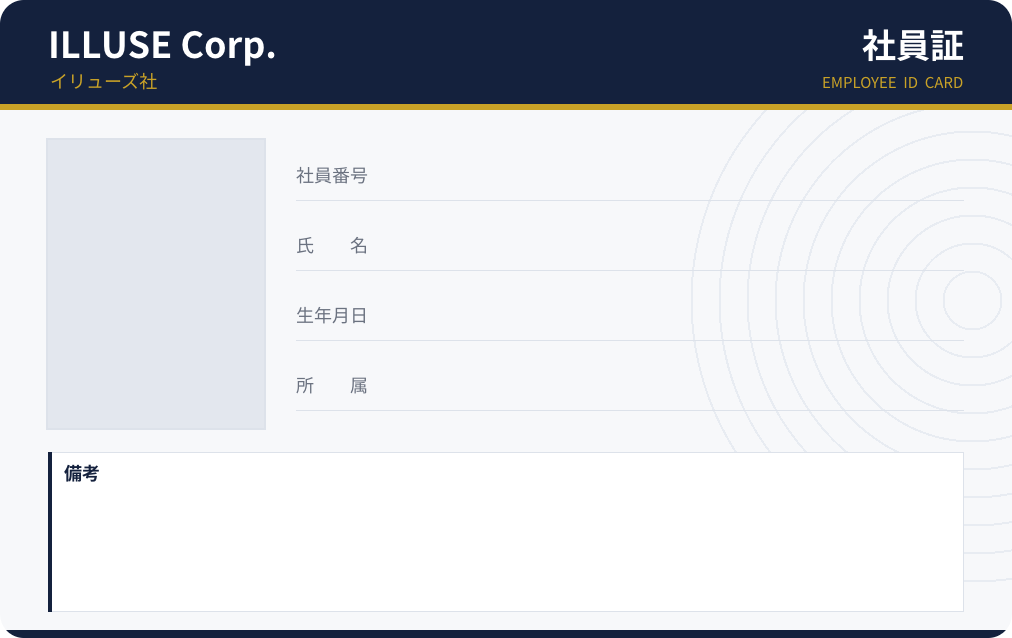
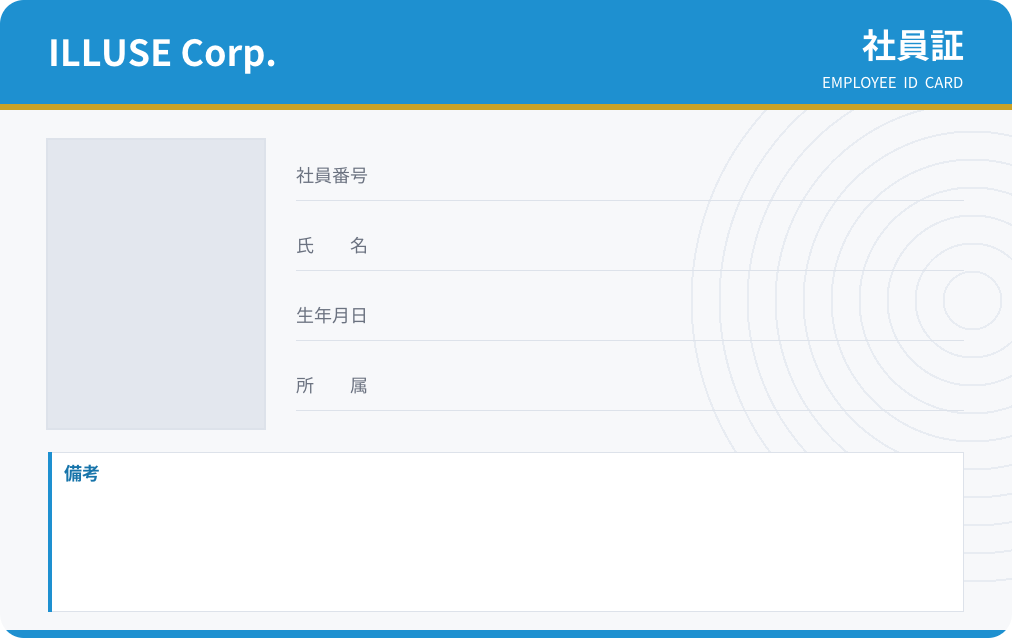
Switch color scheme from navy to sky blue and simplify headers
- Replace navy with sky blue (#1e90d0) on the site and the ID card;
  use a deeper sky blue (#1774aa) for text on white for legibility
- Gold text placed on sky blue becomes white (gold kept for accents)
- Site header subtitle: "イリューズ社 入社手続き" -> "onboarding"
- ID card: remove "イリューズ社" under the company name

Changed region(s): [[0.0, 0.0, 1.0, 0.1787], [0.0, 0.9828, 1.0, 1.0], [0.0306, 0.7147, 0.0919, 0.953]]

diff --git a/frontend/src/index.css b/frontend/src/index.css
@@ -1,6 +1,8 @@
 :root {
-  --navy: #14213d;
-  --navy-hover: #22335a;
+  --sky: #1e90d0; /* 水色（面に使う） */
+  --sky-hover: #1a7fb8;
+  --sky-ink: #1774aa; /* 白地に置く文字用の濃いめの水色 */
+  --sky-tint: #eef7fd;
   --gold: #c9a227;
   --bg: #f1f3f7;
   --surface: #ffffff;
@@ -44,7 +46,7 @@ body {
 /* ---------- ヘッダー・フッター ---------- */
 
 .site-header {
-  background: var(--navy);
+  background: var(--sky);
   border-bottom: 4px solid var(--gold);
   color: #fff;
 }
@@ -66,7 +68,7 @@ body {
 }
 
 .brand-sub {
-  color: var(--gold);
+  color: #fff;
   font-size: 0.875rem;
 }
 
@@ -105,7 +107,7 @@ body {
 .panel-title {
   margin: 0 0 4px;
   font-size: 1.5rem;
-  color: var(--navy);
+  color: var(--sky-ink);
 }
 
 .panel-lead {
@@ -240,8 +242,8 @@ textarea:focus-visible,
 }
 
 .choice:has(input:checked) {
-  border-color: var(--navy);
-  background: #f3f5fa;
+  border-color: var(--sky);
+  background: var(--sky-tint);
 }
 
 .choice input {
@@ -249,7 +251,7 @@ textarea:focus-visible,
   width: 18px;
   height: 18px;
   margin: 4px 0 0;
-  accent-color: var(--navy);
+  accent-color: var(--sky-ink);
 }
 
 .agreement {
@@ -311,22 +313,22 @@ textarea:focus-visible,
 }
 
 .button-primary {
-  background: var(--navy);
+  background: var(--sky);
   color: #fff;
 }
 
 .button-primary:hover {
-  background: var(--navy-hover);
+  background: var(--sky-hover);
 }
 
 .button-secondary {
   background: #fff;
-  color: var(--navy);
-  border-color: var(--navy);
+  color: var(--sky-ink);
+  border-color: var(--sky);
 }
 
 .button-secondary:hover {
-  background: #f3f5fa;
+  background: var(--sky-tint);
 }
 
 .submit {
@@ -356,7 +358,7 @@ textarea:focus-visible,
 
 .loader-card-header {
   height: 22px;
-  background: var(--navy);
+  background: var(--sky);
   border-bottom: 3px solid var(--gold);
 }
 
@@ -415,7 +417,7 @@ textarea:focus-visible,
   margin: 12px 0 0;
   font-size: 1.125rem;
   font-weight: 700;
-  color: var(--navy);
+  color: var(--sky-ink);
 }
 
 /* ---------- 完了画面 ---------- */
@@ -431,8 +433,8 @@ textarea:focus-visible,
   border-radius: 50%;
   display: grid;
   place-items: center;
-  background: var(--navy);
-  color: var(--gold);
+  background: var(--sky);
+  color: #fff;
   font-size: 1.75rem;
   font-weight: 700;
 }

diff --git a/frontend/src/App.tsx b/frontend/src/App.tsx
@@ -47,7 +47,7 @@ export default function App() {
       <header className="site-header">
         <div className="site-header-inner">
           <span className="brand">ILLUSE Corp.</span>
-          <span className="brand-sub">イリューズ社 入社手続き</span>
+          <span className="brand-sub">onboarding</span>
         </div>
       </header>
       <main className="container">

diff --git a/backend/cmd/genbg/main.go b/backend/cmd/genbg/main.go
@@ -50,12 +50,12 @@ func render() *image.RGBA {
 	}
 
 	// ヘッダー帯。
-	fill(img, image.Rect(0, 0, w, design.HeaderHeight), design.Navy)
+	fill(img, image.Rect(0, 0, w, design.HeaderHeight), design.Sky)
 	fill(img, image.Rect(0, design.HeaderHeight, w, design.HeaderHeight+design.StripeHeight), design.Gold)
-	design.DrawText(img, design.Face(36, true), design.White, 48, 58, "ILLUSE Corp.")
-	design.DrawText(img, design.Face(18, false), design.Gold, 50, 88, "イリューズ社")
+	// 社名は 1 行なので帯の上下中央に置く。
+	design.DrawText(img, design.Face(36, true), design.White, 48, 66, "ILLUSE Corp.")
 	design.DrawTextRight(img, design.Face(34, true), design.White, w-48, 58, "社員証")
-	design.DrawTextRight(img, design.Face(15, false), design.Gold, w-48, 88, "EMPLOYEE  ID  CARD")
+	design.DrawTextRight(img, design.Face(15, false), design.White, w-48, 88, "EMPLOYEE  ID  CARD")
 
 	// 顔写真の枠。
 	fill(img, design.PhotoRect.Inset(-2), design.Rule)
@@ -73,12 +73,12 @@ func render() *image.RGBA {
 	box := design.RemarksBox
 	fill(img, box, design.Rule)
 	fill(img, box.Inset(1), design.White)
-	fill(img, image.Rect(box.Min.X, box.Min.Y, box.Min.X+4, box.Max.Y), design.Navy)
-	design.DrawText(img, design.Face(design.RemarksLabelSize, true), design.Navy,
+	fill(img, image.Rect(box.Min.X, box.Min.Y, box.Min.X+4, box.Max.Y), design.Sky)
+	design.DrawText(img, design.Face(design.RemarksLabelSize, true), design.SkyInk,
 		box.Min.X+design.RemarksPadding, design.RemarksLabelBaseline, design.RemarksLabel)
 
 	// フッター帯。
-	fill(img, image.Rect(0, design.FooterTop, w, h), design.Navy)
+	fill(img, image.Rect(0, design.FooterTop, w, h), design.Sky)
 
 	roundCorners(img, design.CornerRadius)
 	return img

diff --git a/backend/internal/design/design.go b/backend/internal/design/design.go
@@ -23,7 +23,8 @@ const (
 
 // 色。
 var (
-	Navy      = color.RGBA{0x14, 0x21, 0x3d, 0xff}
+	Sky       = color.RGBA{0x1e, 0x90, 0xd0, 0xff} // 水色（帯などの面）
+	SkyInk    = color.RGBA{0x17, 0x74, 0xaa, 0xff} // 白地に置く文字用の濃いめの水色
 	Gold      = color.RGBA{0xc9, 0xa2, 0x27, 0xff}
 	Paper     = color.RGBA{0xf7, 0xf8, 0xfa, 0xff}
 	Watermark = color.RGBA{0xe8, 0xec, 0xf2, 0xff}
